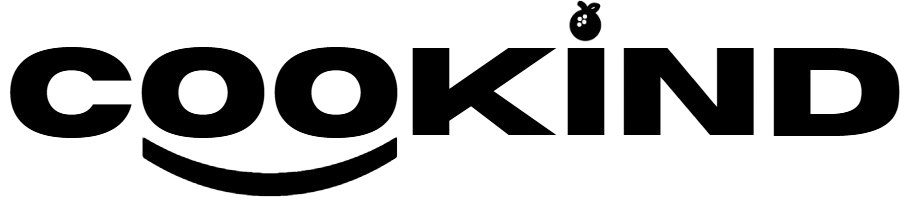
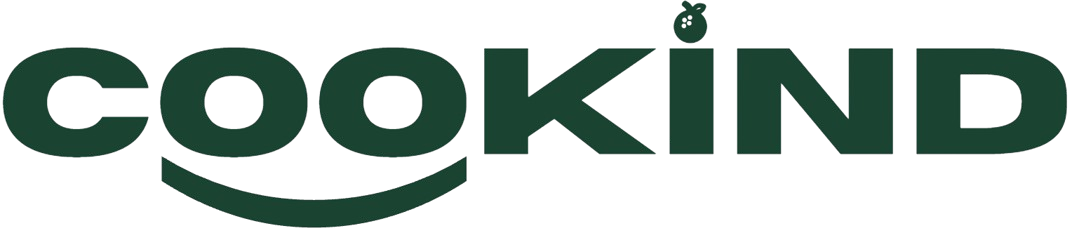
CooKind2

diff --git a/nutri_track/lib/screens/home_screen.dart b/nutri_track/lib/screens/home_screen.dart
@@ -365,7 +365,7 @@ class _HomeScreenState extends State<HomeScreen> {
           },
         ),
         title: ConstrainedBox(
-          constraints: const BoxConstraints(maxWidth: 160, maxHeight: 40),
+          constraints: const BoxConstraints(maxWidth: 225, maxHeight: 58),
           child: Image.asset(
             'assets/images/Cookind.png',
             fit: BoxFit.contain,
